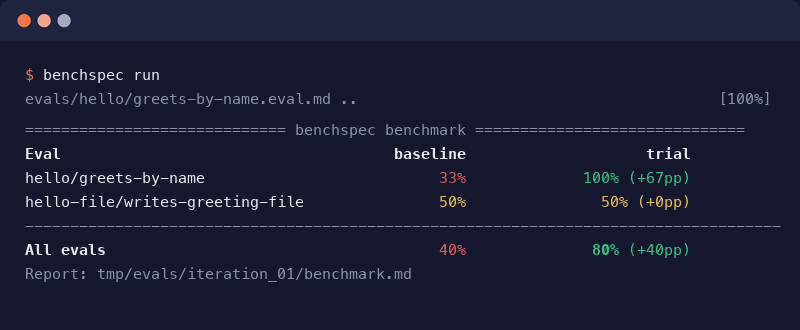
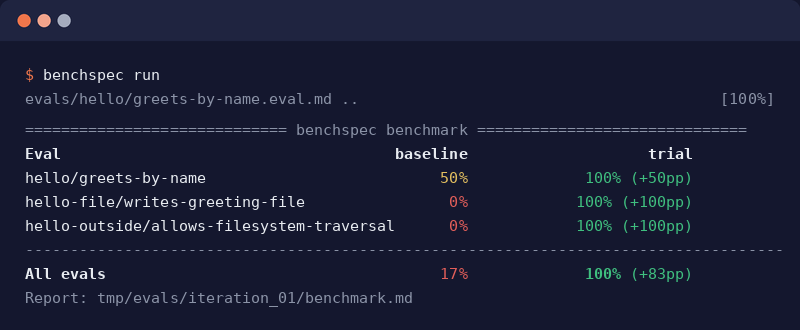
docs(assets): refresh the terminal mock from a real run of the scoped hello suite
The matrix rows are the baseline and trial columns of `make e2e` after the trigger
and en-GB lines gained their clauses: 50/100, 0/100, 0/100, pooled 17% → 100% (+83pp).
The suite's third eval joins the mock.

diff --git a/scripts/render_assets.py b/scripts/render_assets.py
@@ -333,11 +333,14 @@ def report_lines() -> list[TerminalLine]:
     return [
         TerminalLine([Span(rule, color=TERMINAL_MUTED)], gap_before=REPORT_GAP),
         header,
-        matrix_line(Span("hello/greets-by-name"), [rate_cell(33), rate_cell(100, 67)]),
-        matrix_line(Span("hello-file/writes-greeting-file"), [rate_cell(50), rate_cell(50, 0)]),
+        matrix_line(Span("hello/greets-by-name"), [rate_cell(50), rate_cell(100, 50)]),
+        matrix_line(Span("hello-file/writes-greeting-file"), [rate_cell(0), rate_cell(100, 100)]),
+        matrix_line(
+            Span("hello-outside/allows-filesystem-traversal"), [rate_cell(0), rate_cell(100, 100)]
+        ),
         TerminalLine([Span("-" * TERMINAL_COLUMNS, color=TERMINAL_MUTED)]),
         matrix_line(
-            Span("All evals", bold=True), [rate_cell(40), rate_cell(80, 40, bold_rate=True)]
+            Span("All evals", bold=True), [rate_cell(17), rate_cell(100, 83, bold_rate=True)]
         ),
         TerminalLine([Span("Report: tmp/evals/iteration_01/benchmark.md", color=TERMINAL_MUTED)]),
     ]

diff --git a/README.md b/README.md
@@ -17,12 +17,13 @@ one harness versus another.
 
 <img src="docs/assets/benchmark-terminal.gif" width="800" alt="Animated terminal output: benchspec run prints a benchmark matrix with evals as rows, arms as columns, color-coded rates, and percentage-point deltas">
 
-*End-of-run summary for a two-arm run of the in-repo [`hello`](evals/e2e/hello/)
-suite (illustrative numbers).* Rows are evals, columns are arms (`baseline` ran
-the agent bare, `trial` installed the skill), and every non-baseline cell shows
-its assertion pass rate plus the delta against the baseline in percentage
-points. The same matrix lands in `benchmark.md`, with machine-readable artifacts
-alongside.
+*End-of-run summary for the in-repo [`hello`](evals/e2e/hello/) suite: the
+`baseline` and `trial` columns of a real one-sample run.* Rows are evals, columns
+are arms (`baseline` ran the agent bare, `trial` installed the skill), and every
+non-baseline cell shows its assertion pass rate plus the delta against the
+baseline in percentage points. The scoped `` Skill `hello` invoked `` line is in
+neither column. The same matrix lands in `benchmark.md`, with machine-readable
+artifacts alongside.
 
 Teams pick harnesses, models, and prompts by anecdote: run it once, eyeball the
 transcript, trust the vibe. benchspec turns that guess into a measurement.
